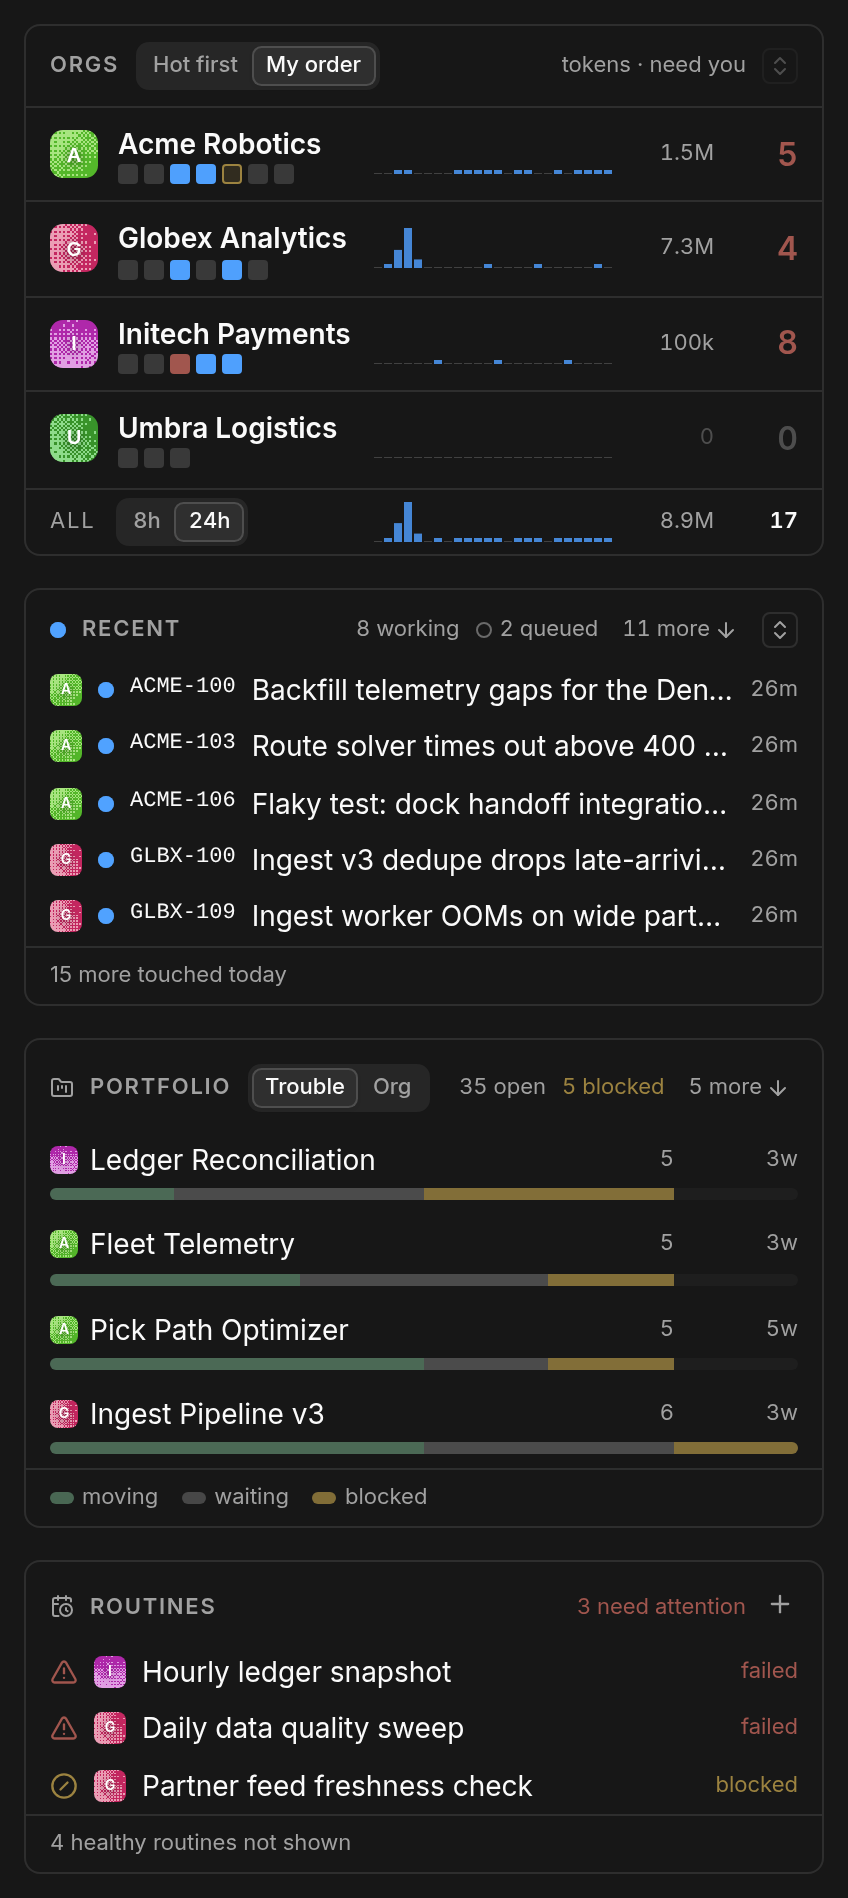
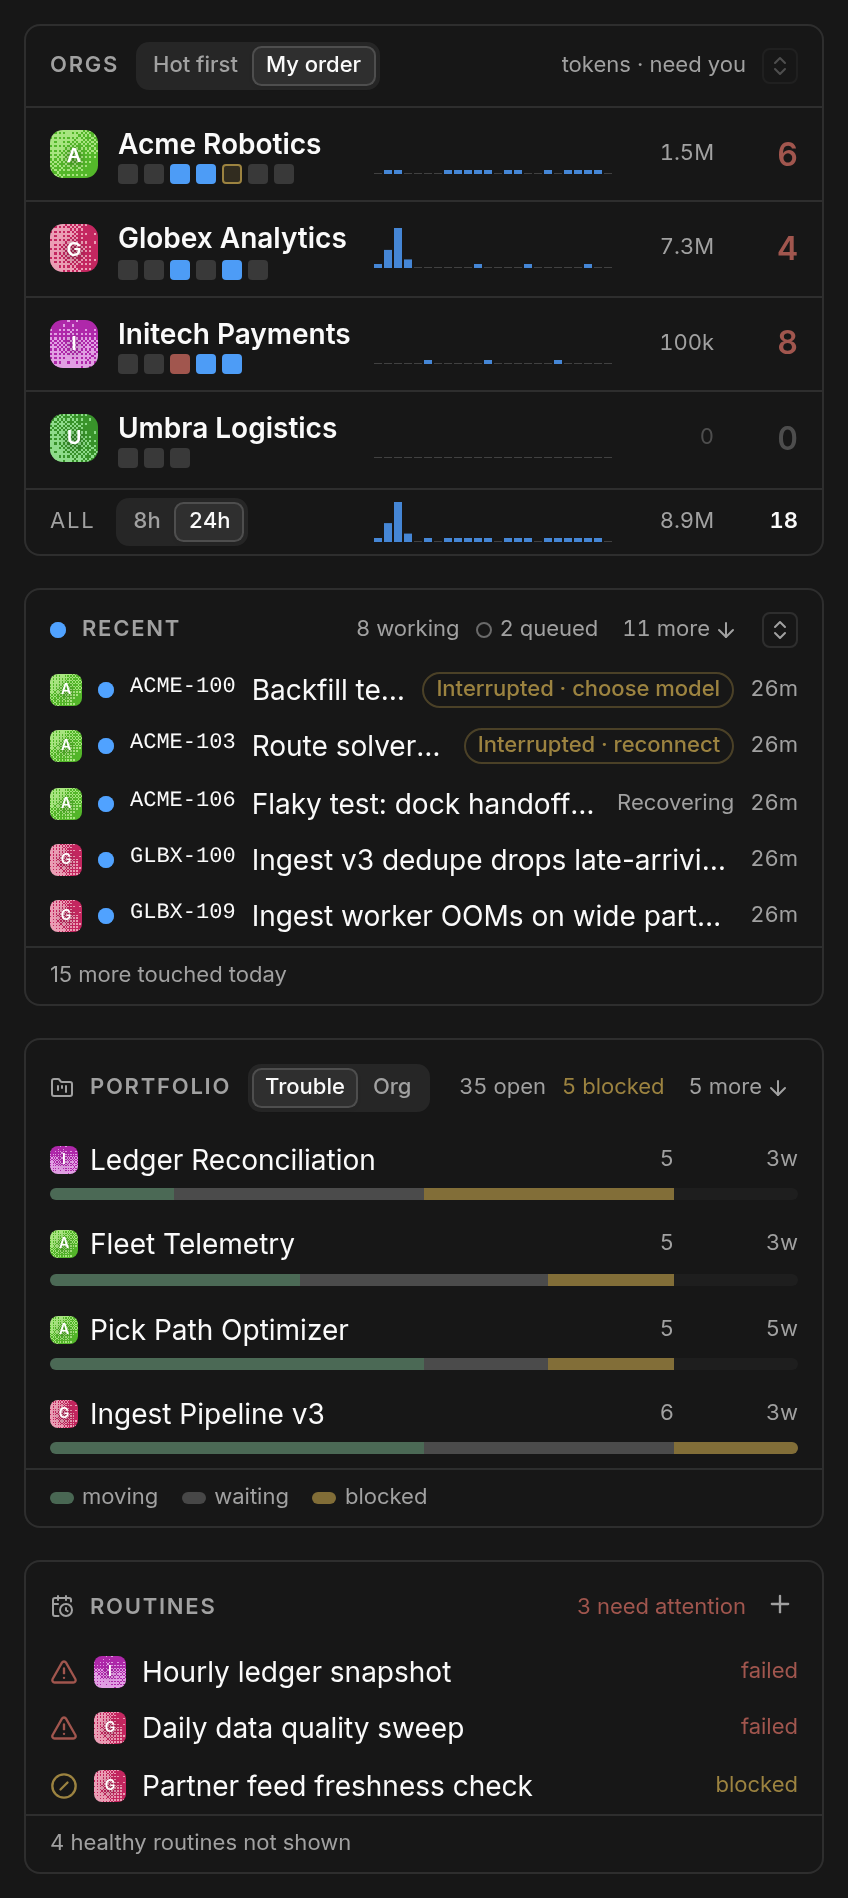
docs(readme): cover Dismiss on queue questions and Interrupted tasks, and reshoot the README's screenshots (PLI-364)

Changed region(s): [[0.4599, 0.3419, 0.8585, 0.4352], [0.4599, 0.2487, 0.4906, 0.2798], [0.4599, 0.1243, 0.4906, 0.1554]]

diff --git a/README.md b/README.md
@@ -30,7 +30,8 @@ you will deal with each thing — instead of visiting each org's dashboard in tu
 - 👀 **What agents are actually doing.** Hover any agent or task for its live narration — not
   just "3 running".
 - 🚦 **Trouble surfaces itself.** Blocked projects, stalled runs, runs stuck past their agent's
-  time limit, agents that failed setup, failed routines, overdue heartbeats.
+  time limit, agents that failed setup, failed routines, overdue heartbeats, tasks stopped until
+  you reconnect an account or choose a model.
 - ⬆ **Updates itself from a button**, and rolls back from one too if a new version misbehaves.
 - 📱 **Works on a phone**, and 🧩 **changes nothing in core** — UI-only, prebuilt, and fits
   whichever Paperclip build it lands on.
@@ -52,12 +53,16 @@ same link lives behind the **?** in the Tickler page header.
 
 **Queue** — the main column. Every item across every org that wants a human: approvals, questions
 and confirmations awaiting a response, blockers, failed runs, overdue heartbeats, routine
-exceptions. Actions are inline — Approve, Reject, Reply, answer a question, choose on a
+exceptions, and tasks whose work is stopped until you act (reconnect an account, choose a model,
+assign an agent). Actions are inline — Approve, Reject, Reply, answer a question, choose on a
 confirmation — so you rarely need to open the org at all. A row's title opens it, and **Reject**
-asks twice, because a rejected approval cannot be undone. When an agent has said it will look
+asks twice, because a rejected approval cannot be undone. On Paperclip v2026.1106.0 or later, a
+question you would rather not answer yet can be **Dismissed** into the task's history, where it
+stays answerable; a question dismissed anywhere, here or in Paperclip, stops counting as needing
+you. [The queue guide](https://github.com/nickallevato/paperclip-tickler/blob/main/docs/queue.md#what-lands-in-it) lists every kind. When an agent has said it will look
 at a task again at a set time, its row says so: *agent checks back 14:30*.
 
-![The Needs-you queue in its default grouping: a Today group with an overdue blocker, then Unsorted, where each new row offers Today, This week and Whenever beside its own Open, Approve, Reject or Reply](https://raw.githubusercontent.com/nickallevato/paperclip-tickler/main/docs/screenshots/needs-you.png)
+![The Needs-you queue in its default grouping: a Today group with an overdue blocker, then Unsorted, where each new row offers Today, This week and Whenever beside its own Open, Approve, Reject, or Answer and Dismiss](https://raw.githubusercontent.com/nickallevato/paperclip-tickler/main/docs/screenshots/needs-you.png)
 
 By default it groups by **when you said you'd decide** — Today (and anything overdue), Unsorted,
 This week, Alerts, Whenever, Snoozed. New items land in Unsorted with **Today · This week ·
@@ -75,10 +80,12 @@ asking for it, it keeps running in Paperclip, and **N hidden** in the header bri
 
 <img src="https://raw.githubusercontent.com/nickallevato/paperclip-tickler/main/docs/screenshots/left-rail.png" alt="The left rail: the Orgs list with hourly token bars, then Recent, Portfolio and Routines" width="424">
 
-**Recent** — what's been touched lately, live rows first. Hover a row for the ticket, its status,
-and the agent's own last sentence about it.
+**Recent** — what's been touched lately, live rows first. A task stopped until you act says
+**Interrupted · reconnect** (or whichever action it needs) and is in the queue too; one Paperclip
+is retrying says **Recovering**. Hover a row for the ticket, its status, and the agent's own last
+sentence about it.
 
-<img src="https://raw.githubusercontent.com/nickallevato/paperclip-tickler/main/docs/screenshots/recent-hover.png" alt="A Recent row's hover card: the ticket, its status, and what the agent last said" width="424">
+<img src="https://raw.githubusercontent.com/nickallevato/paperclip-tickler/main/docs/screenshots/recent-hover.png" alt="Recent rows, two marked Interrupted and one Recovering, with a hover card: the ticket, its status, and what the agent last said" width="424">
 
 **Routines** — only the broken ones, plus any you pin with the **+**: a pinned routine stays on
 top with a ▶ to run it now (press twice; it links the issue the run made).

diff --git a/CHANGELOG.md b/CHANGELOG.md
@@ -5,6 +5,10 @@ Short-form. The reader-facing write-up for each version is in
 
 ## Unreleased
 
+- **The docs catch up with 0.21.0–0.22.0.** The README mentions Dismiss on a
+  queue question and tasks stopped until you act, and its screenshots show
+  both. (PLI-364)
+
 ## 0.22.0
 
 - **Tasks stopped until you act show up, once.** On Paperclip v2026.1106.0 or
